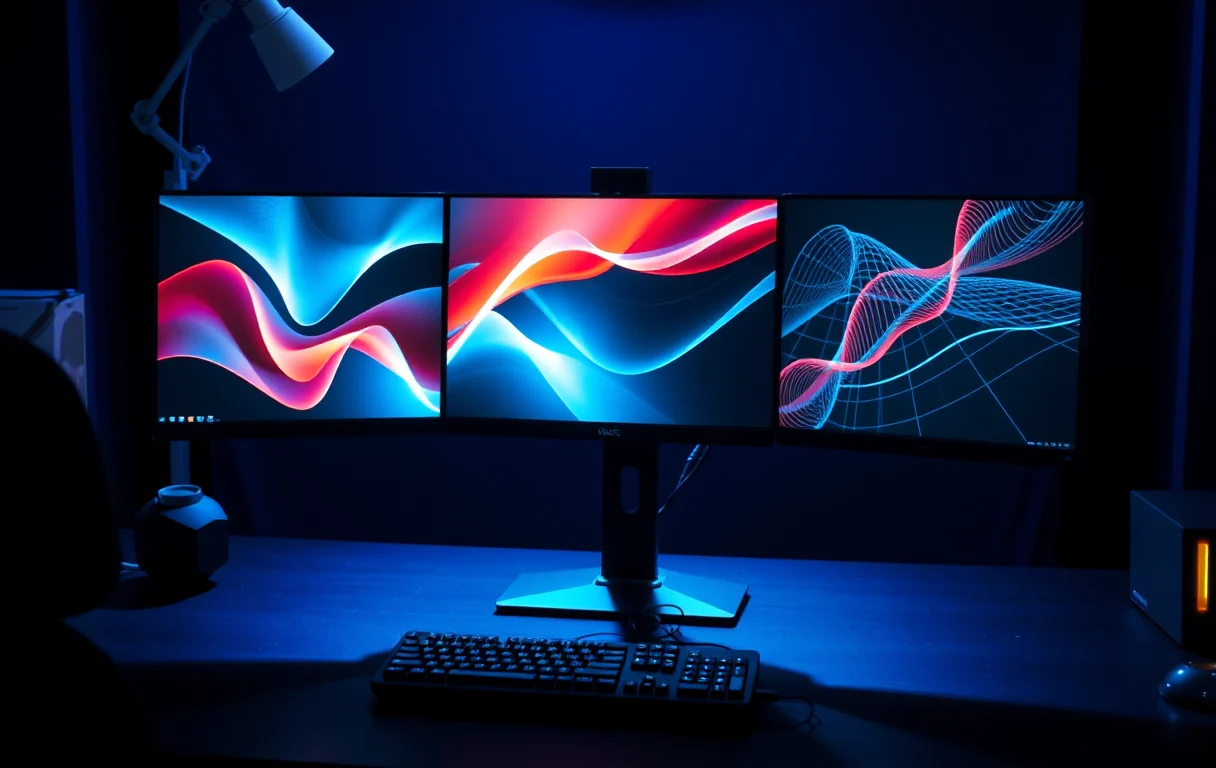
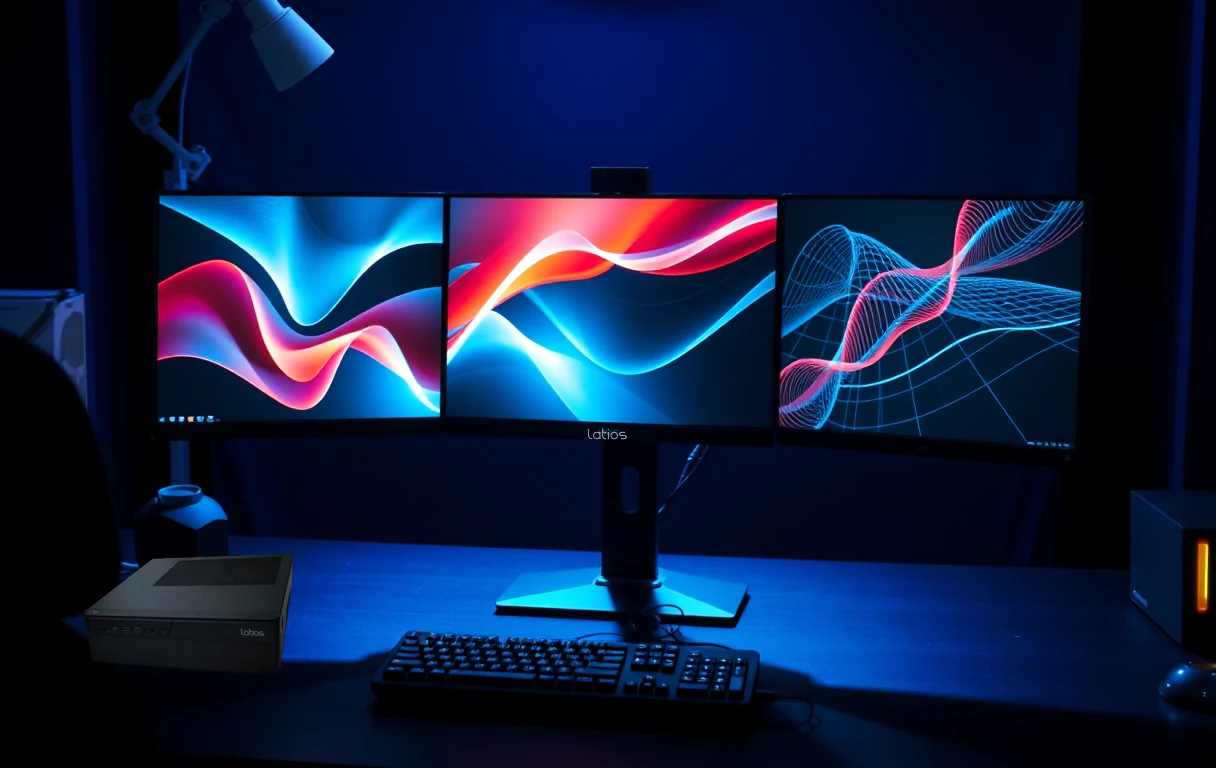
Composite genuine Latios branding into the generated scene images
The scenes shipped without visible branding because the image model cannot
render the wordmark reliably - it produced "Lotios" twice on the cloud model and
duplicated/garbled it locally, so every prompt so far had to suppress text
entirely. That left scenes with no Latios identity at all.

Fixed by never asking the model to draw the brand. Scenes stay generated and
brand-free; the real assets are composited in afterwards:

  * the transparent product cutouts made from the actual photographs, whose
    wordmark, PRO badge and port layout are genuine
  * frontend/public/images/latios-wordmark.png, the official asset, for monitor
    bezels and chassis edges

  ops        real SFF on the desk, wordmark legible on its face
  home-setup real SFF on the desk + wordmark on the monitor bezel
  display    real SFF, light-matched to the dark room + bezel wordmark
  triple     real SFF, light-matched to the dim blue office
  cable      wordmark on the chassis edge

brand_composite.py adds two things needed to make composites believable: a
contact shadow so the product sits on the surface rather than floating, and
ambient light matching (dim/cool) - a studio-lit cutout dropped into a dim blue
room otherwise reads as pasted on.

ddr5 is left unbranded: it is a memory-module macro, not a Latios product
surface, so a wordmark there would be false.

Changed region(s): [[0.0625, 0.7188, 0.25, 0.875]]

diff --git a/tools/image-processing/brand_composite.py b/tools/image-processing/brand_composite.py
@@ -1,0 +1,109 @@
+"""
+Composite REAL Latios assets into generated scenes.
+
+The image model cannot render the wordmark reliably — it produced "Lotios" twice
+on the cloud model and duplicated/garbled it locally. So we never ask it to.
+Instead the scene is generated brand-free, and the genuine assets are composited
+in afterwards:
+
+  * frontend/public/images/latios-wordmark.png  — the official wordmark
+  * the transparent product cutouts made from the real photographs
+
+That makes the branding pixel-exact and the product genuine, with only the
+environment generated.
+"""
+import sys
+from pathlib import Path
+from PIL import Image, ImageEnhance
+
+IMAGES = Path(r"C:\Ronak\latios-web\frontend\public\images")
+GEN = Path(__file__).parent / "generated"
+OUT = Path(__file__).parent / "generated"
+
+WORDMARK = IMAGES / "latios-wordmark.png"
+
+
+def _tint(rgba, rgb):
+    """Recolour a transparent logo (keeps its alpha)."""
+    solid = Image.new("RGBA", rgba.size, rgb + (255,))
+    solid.putalpha(rgba.getchannel("A"))
+    return solid
+
+
+def ground_shadow(scene, ov, x, y, w, h, strength=0.42, spread=0.16):
+    """Soft contact shadow so a composited product sits on the surface."""
+    from PIL import ImageFilter
+    sil = ov.getchannel("A")
+    sh_h = max(4, int(h * spread))
+    strip = sil.crop((0, int(h * 0.78), w, h)).resize((int(w * 1.06), sh_h), Image.LANCZOS)
+    layer = Image.new("L", scene.size, 0)
+    layer.paste(strip, (x - int(w * 0.03), y + h - sh_h // 2))
+    layer = layer.filter(ImageFilter.GaussianBlur(radius=max(4, w // 22)))
+    layer = layer.point(lambda v: int(v * strength))
+    sh = Image.new("RGBA", scene.size, (0, 0, 0, 0))
+    sh.putalpha(layer)
+    return Image.alpha_composite(scene.convert("RGBA"), sh)
+
+
+def place(scene, overlay, cx, cy, width_frac, opacity=1.0, tint=None, shadow=False,
+          dim=None, cool=None):
+    """
+    Paste `overlay` onto `scene`.
+      cx, cy      centre position as fractions of the scene (0-1)
+      width_frac  overlay width as a fraction of scene width
+      tint        optional (r,g,b) to recolour a logo for the surface it sits on
+    """
+    ov = overlay.convert("RGBA")
+    if dim or cool:
+        # Match a composited product to the scene's ambient light, otherwise a
+        # studio-lit cutout dropped into a dim room reads as pasted-on.
+        a = ov.getchannel("A")
+        rgb = ov.convert("RGB")
+        if dim:
+            rgb = ImageEnhance.Brightness(rgb).enhance(dim)
+        if cool:
+            r, g, b = rgb.split()
+            r = r.point(lambda v: int(v * (1 - cool)))
+            b = b.point(lambda v: min(255, int(v * (1 + cool))))
+            rgb = Image.merge("RGB", (r, g, b))
+        ov = rgb.convert("RGBA"); ov.putalpha(a)
+    if tint:
+        ov = _tint(ov, tint)
+    w = max(1, int(scene.width * width_frac))
+    h = max(1, round(ov.height * w / ov.width))
+    ov = ov.resize((w, h), Image.LANCZOS)
+
+    if opacity < 1.0:
+        a = ov.getchannel("A").point(lambda v: int(v * opacity))
+        ov.putalpha(a)
+
+    x = int(scene.width * cx) - w // 2
+    y = int(scene.height * cy) - h // 2
+    if shadow:
+        scene = ground_shadow(scene, ov, x, y, w, h)
+    layer = Image.new("RGBA", scene.size, (0, 0, 0, 0))
+    layer.paste(ov, (x, y), ov)
+    return Image.alpha_composite(scene.convert("RGBA"), layer)
+
+
+def load_scene(name):
+    return Image.open(GEN / name).convert("RGBA")
+
+
+def save(scene, name, quality=88):
+    p = OUT / name
+    scene.convert("RGB").save(p, "WEBP", quality=quality, method=6)
+    print(f"  saved {p.name} ({scene.width}x{scene.height}, {p.stat().st_size//1024}KB)")
+
+
+def wordmark(tint=None):
+    return _tint(Image.open(WORDMARK).convert("RGBA"), tint) if tint else Image.open(WORDMARK).convert("RGBA")
+
+
+def product(name):
+    """A real transparent product cutout already deployed to the site."""
+    return Image.open(IMAGES / name).convert("RGBA")
+
+
+if __name__ == "__main__":
+    print(__doc__)
